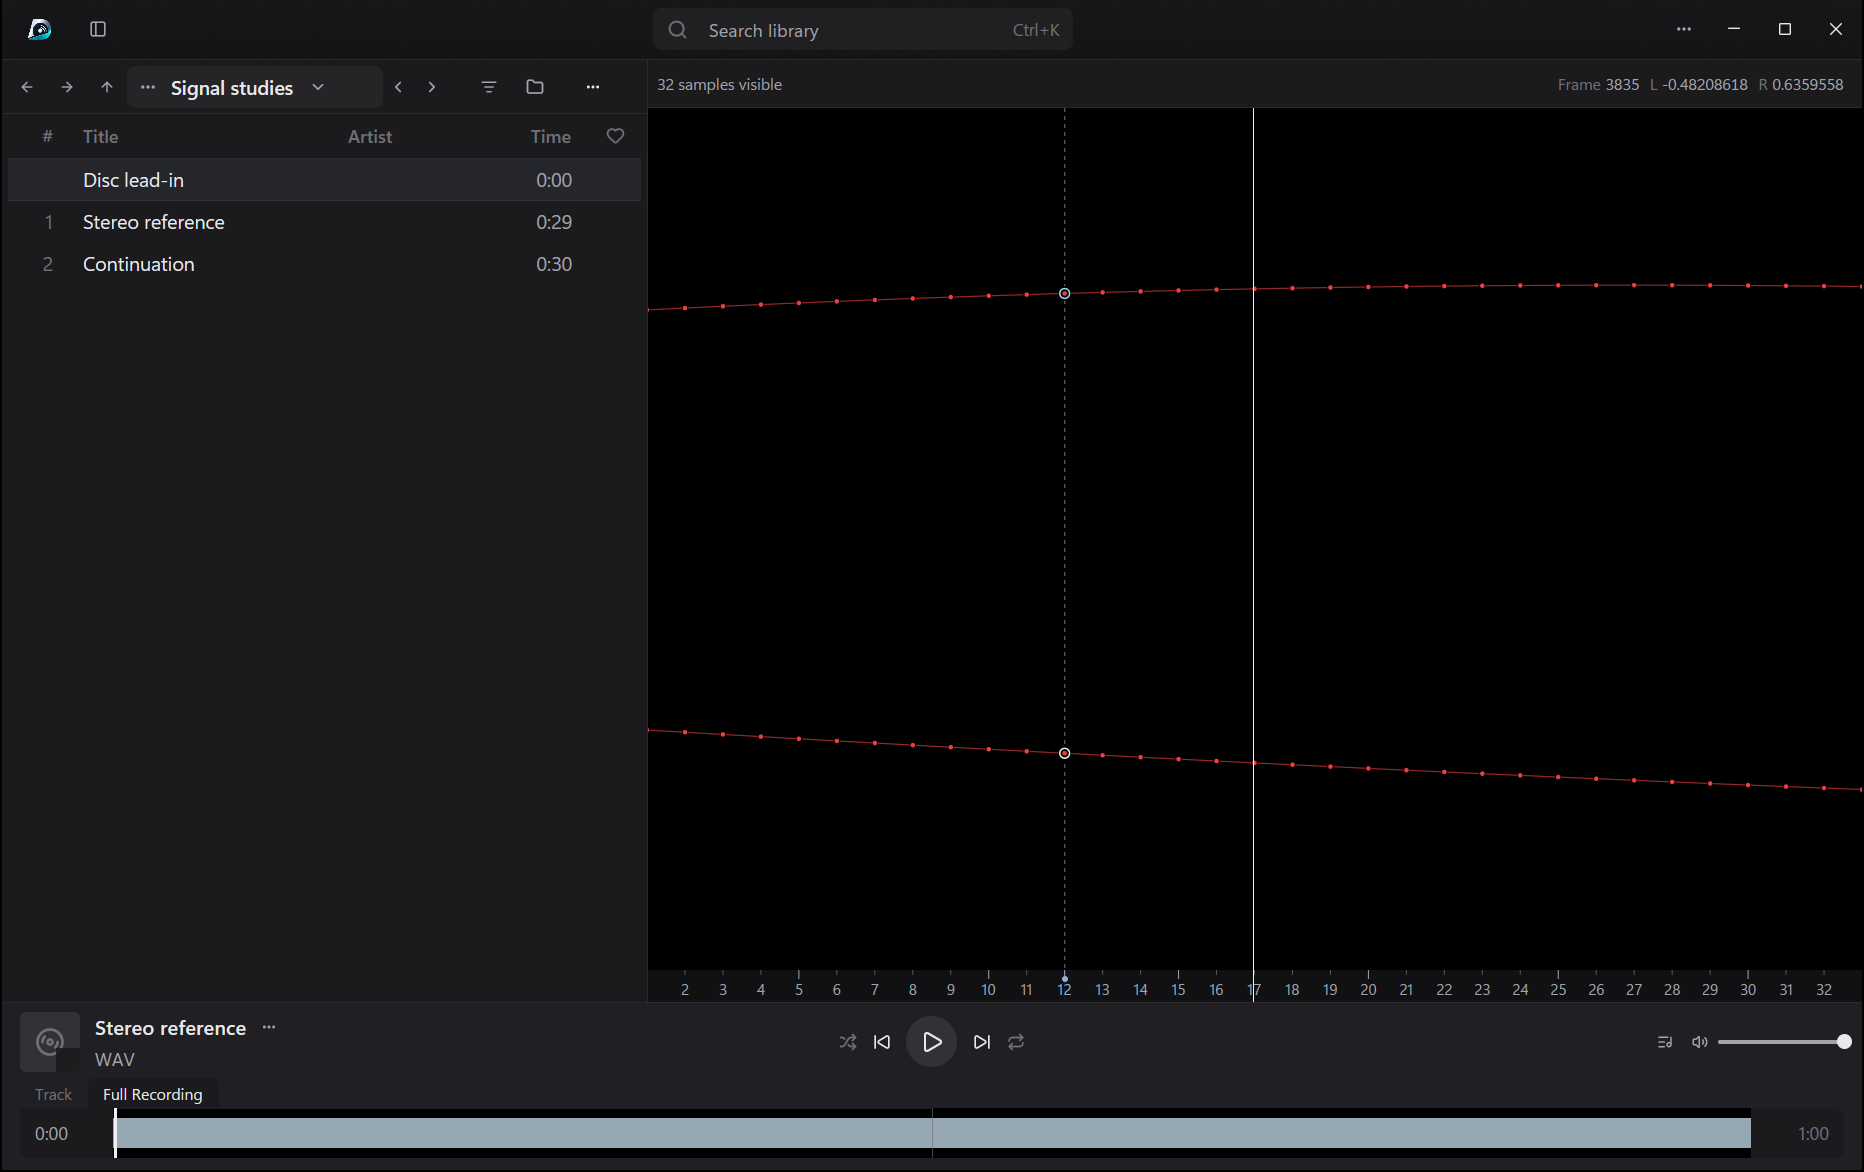
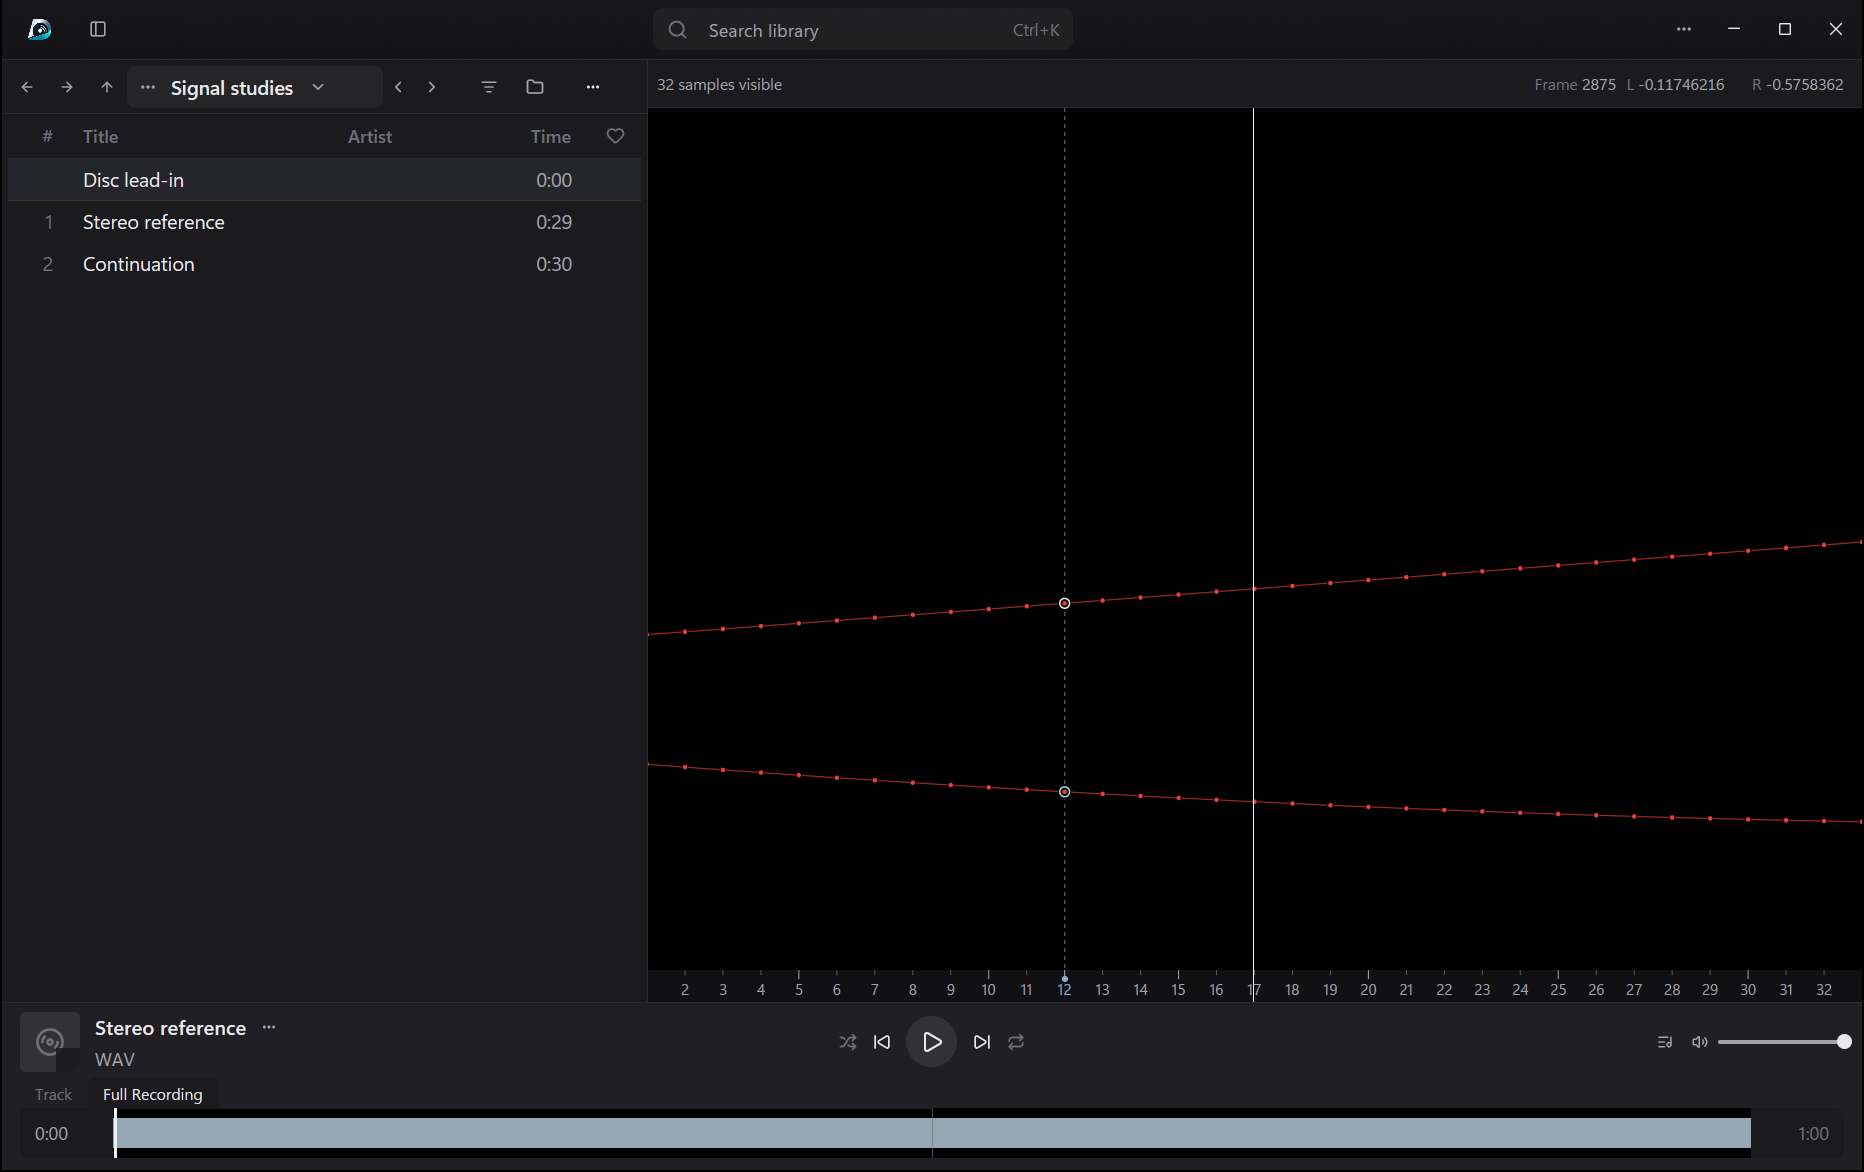
feat(waveform): keep the sample ruler visible during playback

Changed region(s): [[0.8401, 0.0614, 0.9957, 0.0922]]

diff --git a/src/panels/waveform.rs b/src/panels/waveform.rs
@@ -290,16 +290,11 @@ struct Settings {
 }
 
 impl Settings {
-    fn stationary(self, playing: bool, scrubbing: bool) -> Self {
-        if playing || scrubbing {
-            Self::default()
-        } else {
-            self
+    fn visible(self, playing: bool, scrubbing: bool) -> Self {
+        Self {
+            show_sample_points: self.show_sample_points && !playing && !scrubbing,
+            show_sample_ruler: self.show_sample_ruler && !scrubbing,
         }
-    }
-
-    fn enabled(self) -> bool {
-        self.show_sample_points || self.show_sample_ruler
     }
 }
 
@@ -453,12 +448,21 @@ impl Waveform {
     }
 
     fn overlays(&self, track: &WaveTrack, cx: &App) -> Settings {
-        self.settings.stationary(
+        self.settings.visible(
             track.playing
-                || (self.settings.enabled()
+                || (self.settings.show_sample_points
                     && track.position(Instant::now()).is_some_and(|p| p.advancing)),
             self.player.read(cx).waveform_grabbed(),
         )
+    }
+
+    fn surface(&self, track: &WaveTrack) -> Surface {
+        Surface {
+            role: Role::Detail,
+            rate: track.source.rate,
+            playable: 0..track.source.frames,
+            viewport: self.position.viewport,
+        }
     }
 
     fn prepare(
@@ -467,13 +471,8 @@ impl Waveform {
         layout: Option<Layout>,
         active: bool,
     ) -> (Surface, overview::Evidence, Coverage) {
-        let viewport = self.position.viewport;
-        let surface = Surface {
-            role: Role::Detail,
-            rate: track.source.rate,
-            playable: 0..track.source.frames,
-            viewport,
-        };
+        let surface = self.surface(track);
+        let viewport = surface.viewport;
         let mut evidence = overview::Evidence {
             overview: Some(track.overview.clone()),
             overview_start: track.range.start,
@@ -579,8 +578,15 @@ impl Waveform {
         }
         let grabbed = self.grabbed();
         let moving = self.position.update(&track, now, grabbed);
-        // An inspected texture and its measurement must enter the same scene.
-        if self.overlays(&track, cx).enabled() {
+        // The ruler and any sample measurement must use the same viewport
+        // as the texture in this scene. Keep the retained path at wider zooms.
+        let overlays = self.overlays(&track, cx);
+        if (overlays.show_sample_points || overlays.show_sample_ruler)
+            && self
+                .surface(&track)
+                .target(layout.bounds, layout.scale)
+                .is_some_and(|(_, view)| sample_spacing(&view))
+        {
             cx.notify();
             return false;
         }
@@ -845,12 +851,12 @@ impl Render for Waveform {
                                     bounds: target,
                                     scale,
                                 };
-                                let eligible = overlays.enabled()
-                                    && SamplePoints::Visible.for_view(&view)
-                                        == SamplePoints::Visible
+                                let sample_zoom = sample_spacing(&view);
+                                let points = if overlays.show_sample_points
+                                    && sample_zoom
                                     && !evidence.samples.is_empty()
-                                    && inspection_player.read(cx).inspection_current(&track);
-                                let points = if eligible && overlays.show_sample_points {
+                                    && inspection_player.read(cx).inspection_current(&track)
+                                {
                                     SamplePoints::Visible
                                 } else {
                                     SamplePoints::Hidden
@@ -895,7 +901,7 @@ impl Render for Waveform {
                                     u64::from(ready),
                                     (scale * 96.).round() as u64,
                                 );
-                                if ready && eligible && overlays.show_sample_ruler {
+                                if ready && sample_zoom && overlays.show_sample_ruler {
                                     inspection::paint_ruler(
                                         layout,
                                         &view,
@@ -1020,6 +1026,10 @@ impl Render for Waveform {
     }
 }
 
+fn sample_spacing(view: &waveform::View) -> bool {
+    SamplePoints::Visible.for_view(view) == SamplePoints::Visible
+}
+
 #[cfg(test)]
 mod point_tests {
     use super::Settings;
@@ -1038,13 +1048,14 @@ mod point_tests {
         ] {
             let ruler: Settings =
                 serde_json::from_value(serde_json::json!({"showSampleRuler": true})).unwrap();
-            let visible = restored.stationary(playing, scrubbing);
+            let visible = restored.visible(playing, scrubbing);
             assert_eq!(visible.show_sample_points, points);
             assert!(!visible.show_sample_ruler);
-            let ruler_only = ruler.stationary(playing, scrubbing);
-            assert_eq!(ruler_only.show_sample_ruler, points);
+            let ruler_only = ruler.visible(playing, scrubbing);
+            assert_eq!(ruler_only.show_sample_ruler, !scrubbing);
             assert!(!ruler_only.show_sample_points);
-            assert!(!other.stationary(playing, scrubbing).enabled());
+            let disabled = other.visible(playing, scrubbing);
+            assert!(!disabled.show_sample_points && !disabled.show_sample_ruler);
             assert_eq!(
                 serde_json::to_value(ruler).unwrap()["showSampleRuler"],
                 true

diff --git a/src/panels/waveformInspectionJourney.rs b/src/panels/waveformInspectionJourney.rs
@@ -11,24 +11,26 @@ fn key(name: &'static str) -> PlatformInput {
     })
 }
 
-fn vertex(panel: &Waveform) -> Option<Point<Pixels>> {
+fn hover_point(panel: &Waveform) -> Option<Point<Pixels>> {
     let displayed = panel.displayed.borrow();
     let shown = displayed.as_ref()?;
     let layout = shown.layout;
-    let width = f64::from(f32::from(layout.bounds.size.width) * layout.scale);
-    let height = f64::from(f32::from(layout.bounds.size.height) * layout.scale);
+    // The fixture's signal is near mid-height. Hover well above the trace.
     let frame = shown.viewport.frame_at(0.35).round();
-    let x = (frame - shown.viewport.first) * width / shown.viewport.span;
-    for row in 0..height as u32 {
-        if let Some(hit) = panel.texture.sample_hit([x, f64::from(row)]) {
-            let y = height * (0.5 - 0.46 * f64::from(hit.stereo[0]).clamp(-1., 1.));
-            return Some(
-                layout.bounds.origin
-                    + point(px(x as f32 / layout.scale), px(y as f32 / layout.scale)),
-            );
-        }
-    }
-    None
+    let column = ((frame + 0.2 - shown.viewport.first) / shown.viewport.span) as f32;
+    let point = layout.bounds.origin
+        + point(
+            layout.bounds.size.width * column,
+            layout.bounds.size.height * 0.12,
+        );
+    let hit = panel.texture.sample_hit(layout.physical(point))?;
+    assert_eq!(hit.frame, frame as u64);
+    let below = Point {
+        y: layout.bounds.bottom() - layout.bounds.size.height * 0.12,
+        ..point
+    };
+    assert_eq!(panel.texture.sample_hit(layout.physical(below)), Some(hit));
+    Some(point)
 }
 
 struct Journey {
@@ -165,14 +167,14 @@ impl Journey {
                 if shown.span != 32. || !same_center(shown) {
                     return None;
                 }
-                vertex(p)
+                hover_point(p)
             })
             .await?;
         self.edit(cx, "32 samples").await?;
         self.capture(cx, "zoom-editor").await?;
         dispatch(cx, key("escape"))?;
         self.until(cx, "editor dismissed over decoded trace", |p, _, _| {
-            (p.zoom_editor.is_none() && vertex(p).is_some()).then_some(())
+            (p.zoom_editor.is_none() && hover_point(p).is_some()).then_some(())
         })
         .await?;
         self.capture(cx, "sample-points").await?;
@@ -187,7 +189,7 @@ impl Journey {
             (p.settings.show_sample_ruler
                 && p.displayed.borrow().as_ref()?.viewport.span == 32.
                 && p.displayed.borrow().as_ref()?.viewport.first.fract().abs() == 0.5
-                && vertex(p).is_none())
+                && hover_point(p).is_none())
             .then_some(())
         })
         .await?;
@@ -199,8 +201,10 @@ impl Journey {
                 cx.notify();
             })
         })??;
-        self.until(cx, "points restored alongside ruler", |p, _, _| vertex(p))
-            .await?;
+        self.until(cx, "points restored alongside ruler", |p, _, _| {
+            hover_point(p)
+        })
+        .await?;
         dispatch(
             cx,
             PlatformInput::MouseMove(MouseMoveEvent {
@@ -234,7 +238,7 @@ impl Journey {
             (p.player.read(cx).status.playing
                 && view.span == 32.
                 && view.first > initial.frame_at(0.5) + 32.
-                && vertex(p).is_none())
+                && hover_point(p).is_none())
             .then_some(())
         })
         .await?;
@@ -248,7 +252,7 @@ impl Journey {
         })??;
         self.until(cx, "restored sample points", |p, _, cx| {
             (!p.player.read(cx).status.playing)
-                .then(|| vertex(p))
+                .then(|| hover_point(p))
                 .flatten()
         })
         .await?;
@@ -264,13 +268,13 @@ impl Journey {
             })
             .await?;
         self.until(cx, "suppressed scrub points", |p, _, cx| {
-            (p.player.read(cx).waveform_grabbed() && vertex(p).is_none()).then_some(())
+            (p.player.read(cx).waveform_grabbed() && hover_point(p).is_none()).then_some(())
         })
         .await?;
         gesture.finish(crate::audio::scrub::End::Cancel);
         self.until(cx, "restored after scrub", |p, _, cx| {
             (!p.player.read(cx).waveform_grabbed())
-                .then(|| vertex(p))
+                .then(|| hover_point(p))
                 .flatten()
         })
         .await?;
@@ -291,7 +295,7 @@ impl Journey {
                 if layout.bounds.size.width == previous_width {
                     return None;
                 }
-                let point = layout.physical(vertex(p)?);
+                let point = layout.physical(hover_point(p)?);
                 assert!(p.texture.sample_hit(point).is_some());
                 // Fail allocation at a stable size. Intermediate resize targets
                 // can legitimately recover on the very next layout.
@@ -312,12 +316,12 @@ impl Journey {
             },
         )
         .await?;
-        self.until(cx, "resident vertices after target retry", |p, _, _| {
-            vertex(p)
+        self.until(cx, "resident samples after target retry", |p, _, _| {
+            hover_point(p)
         })
         .await?;
         let narrow = self
-            .until(cx, "resized sample", |p, _, _| vertex(p))
+            .until(cx, "resized sample", |p, _, _| hover_point(p))
             .await?;
         dispatch(
             cx,

diff --git a/tools/qualifyWaveformInspection.py b/tools/qualifyWaveformInspection.py
@@ -98,6 +98,14 @@ def measure(exe, folder, band, control_wav):
                         time.sleep(0.2)
                         handle = find_window(player.pid)
                         screenshot(handle, path)
+                        if name == "playback":
+                            with Image.open(path) as playing:
+                                # Below the traces and above the transport, within the
+                                # fixture's waveform ruler. Exclude the center playhead.
+                                w, h = playing.size
+                                ruler = playing.convert("L").crop((round(w * 0.7), round(h * 0.83),
+                                                                  round(w * 0.97), round(h * 0.85)))
+                                assert sum(ruler.histogram()[52:]) > 100, "Sample ruler lost its ticks during playback"
                         if name in ("sample-inspector", "cue-times"):
                             baseline = "sample-points" if name == "sample-inspector" else "sample-inspector"
                             with Image.open(folder / (baseline + ".png")) as before, Image.open(path) as after:

diff --git a/src/panels/waveformInspection.rs b/src/panels/waveformInspection.rs
@@ -4,7 +4,7 @@ use gpui_kit::component::ActiveTheme;
 use waveform::inspection::SampleHit;
 
 /// Movement only schedules a scene update. The paint callback independently
-/// resolves the vertex against the source and exact PCM of its own draw.
+/// resolves the sample column against the source and exact PCM of its own draw.
 pub(super) fn listen(
     panel: &WeakEntity<Waveform>,
     texture: Texture,
@@ -77,9 +77,6 @@ pub(super) fn paint_ruler(
                 .any(|block| block.sample(t.frame).is_some())
         })
         .peekable();
-    if ticks.peek().is_none() {
-        return;
-    }
     window.paint_quad(fill(
         Bounds::new(point(b.left(), top), size(b.size.width, px(RULER_HEIGHT))),
         m.chrome.opacity(0.87),

diff --git a/docs/precision-waveform-inspection.md b/docs/precision-waveform-inspection.md
@@ -12,22 +12,22 @@ Click the visible-span readout in a Waveform panel, or focus it with Tab and pre
 
 The wheel and inline editor share the existing 32-frame minimum and 120-second maximum. Density inputs use the panel's registered device-pixel width. Each panel owns its zoom.
 
-Right-click a waveform and enable **Show Sample Points** or **Show Sample Ruler**. Each panel saves the two preferences independently. Both start disabled. Overlays appear while stationary with decoded PCM resident and at least eight physical pixels between adjacent frames. Playback and audible scrubbing hide them.
+Right-click a waveform and enable **Show Sample Points** or **Show Sample Ruler**. Each panel saves the two preferences independently. Both start disabled. Both overlays require at least eight physical pixels between adjacent frames. Sample points and measurements require resident PCM and a stationary view. The ruler stays visible during playback at sample zoom and follows the displayed samples. Audible scrubbing hides both overlays.
 
-Hover over either channel's dot to inspect the stereo frame. A dashed guide marks its position. The warm ring identifies L and the cool ring identifies R. The rings nest when the vertices coincide. The right edge of the header shows the absolute zero-based source frame and exact L/R amplitudes. The two channel fields are sized for the visible samples. Hold **Shift** over a sample to see its source time and sample rate. CUE recordings also show track and program time where space permits. Release Shift to return to the amplitudes. At very narrow widths, the header keeps as many complete fields as fit on one line. Frame divided by rate gives the exact source timestamp in seconds. The decimal is rounded to twelve places.
+Move across the waveform canvas to inspect the nearest visible stereo frame at the pointer’s horizontal position. A dashed guide marks its position. The warm ring identifies L and the cool ring identifies R. The rings nest when the vertices coincide. The right edge of the header shows the absolute zero-based source frame and exact L/R amplitudes. The two channel fields are sized for the visible samples. Hold **Shift** over a sample to see its source time and sample rate. CUE recordings also show track and program time where space permits. Release Shift to return to the amplitudes. At very narrow widths, the header keeps as many complete fields as fit on one line. Frame divided by rate gives the exact source timestamp in seconds. The decimal is rounded to twelve places.
 
 The ruler counts visible sample positions from **1**. Labels stay centered beneath their ticks. As space narrows, the ruler labels fewer ticks and leaves an edge tick unlabeled when its number would cross the panel boundary. A missing PCM block leaves a gap in the ruler at its true position.
 
 ## Qualification
 
-The Windows fixture uses a private test desktop, an isolated profile, in-process GPUI input, and the silent qualification master fader. It checks inline commit, Escape, blur, invalid input, centered zoom, stereo PCM values, 32-frame playback, scrub suppression, hit registration after resize, and recovery after a failed target allocation.
+The Windows fixture uses a private test desktop, an isolated profile, in-process GPUI input, and the silent qualification master fader. It checks inline commit, Escape, blur, invalid input, centered zoom, stereo PCM values from hover above and below the trace, 32-frame playback with the ruler visible, scrub suppression, hit registration after resize, and recovery after a failed target allocation.
 
 ```powershell
 cargo build --locked --features qualification
 python -B tools/qualifyWaveformInspection.py target/debug/disqro.exe <new-output-directory>
 ```
 
[2 lines of base64/hex data omitted]
 
 The earlier zoom-editor image was captured while the text `32 samples` was pending. The recorded viewport still spanned 384,000 frames at 48 kHz. The green block was the eight-second envelope of the stationary-amplitude fixture at the source boundary. The journey now checks the uncommitted viewport and captures the editor after reopening it over resident PCM at 32 frames.
 
